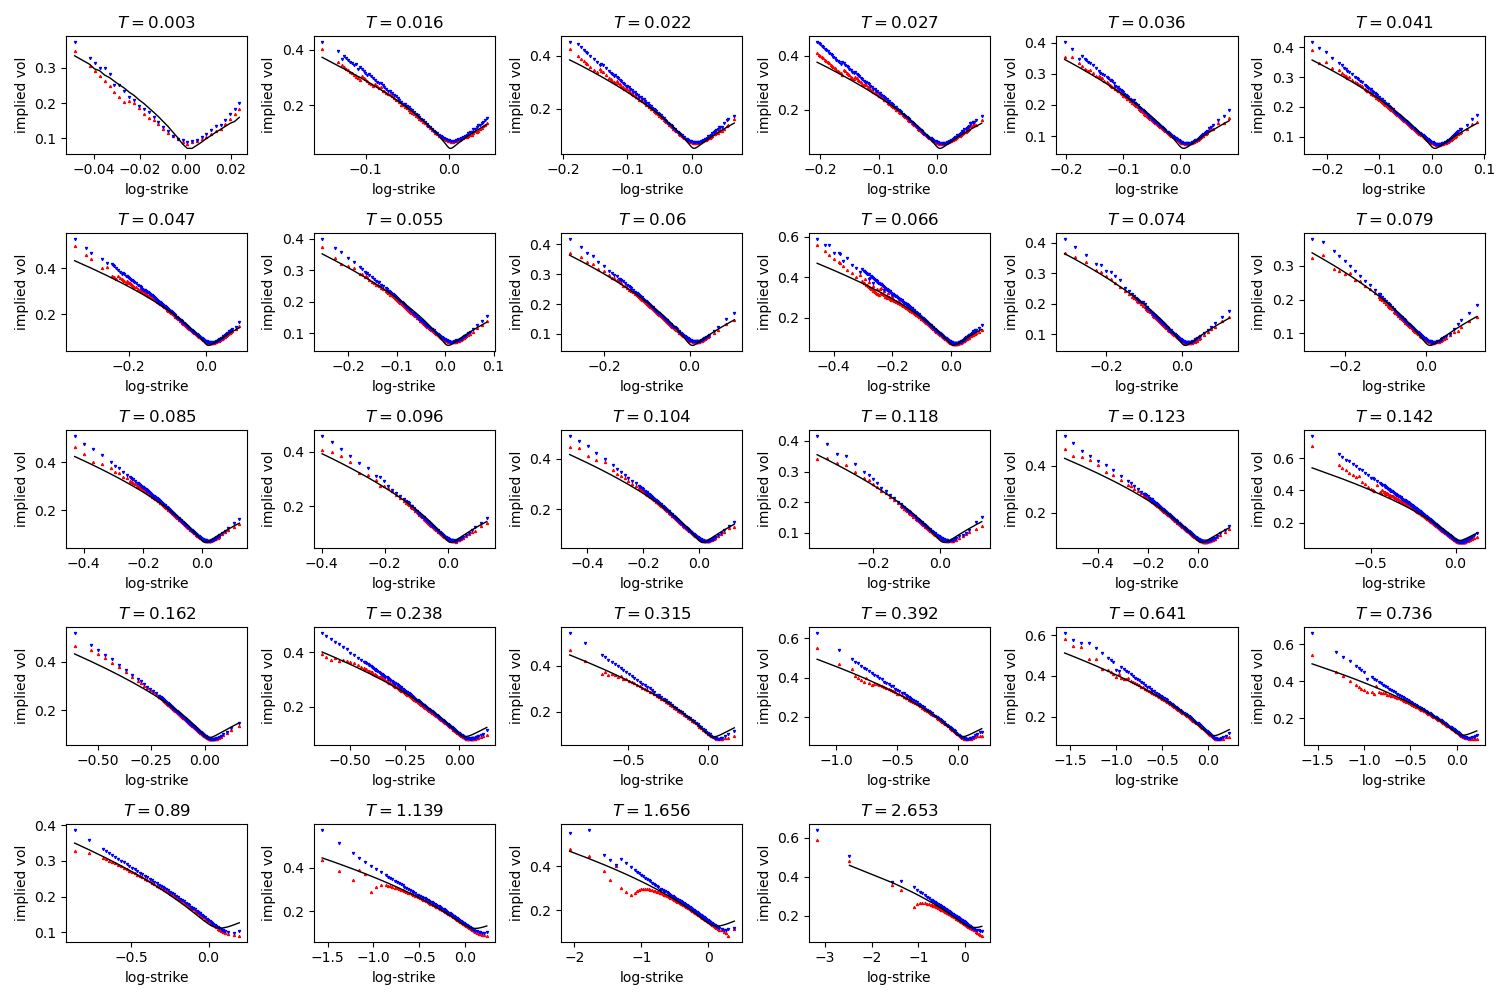
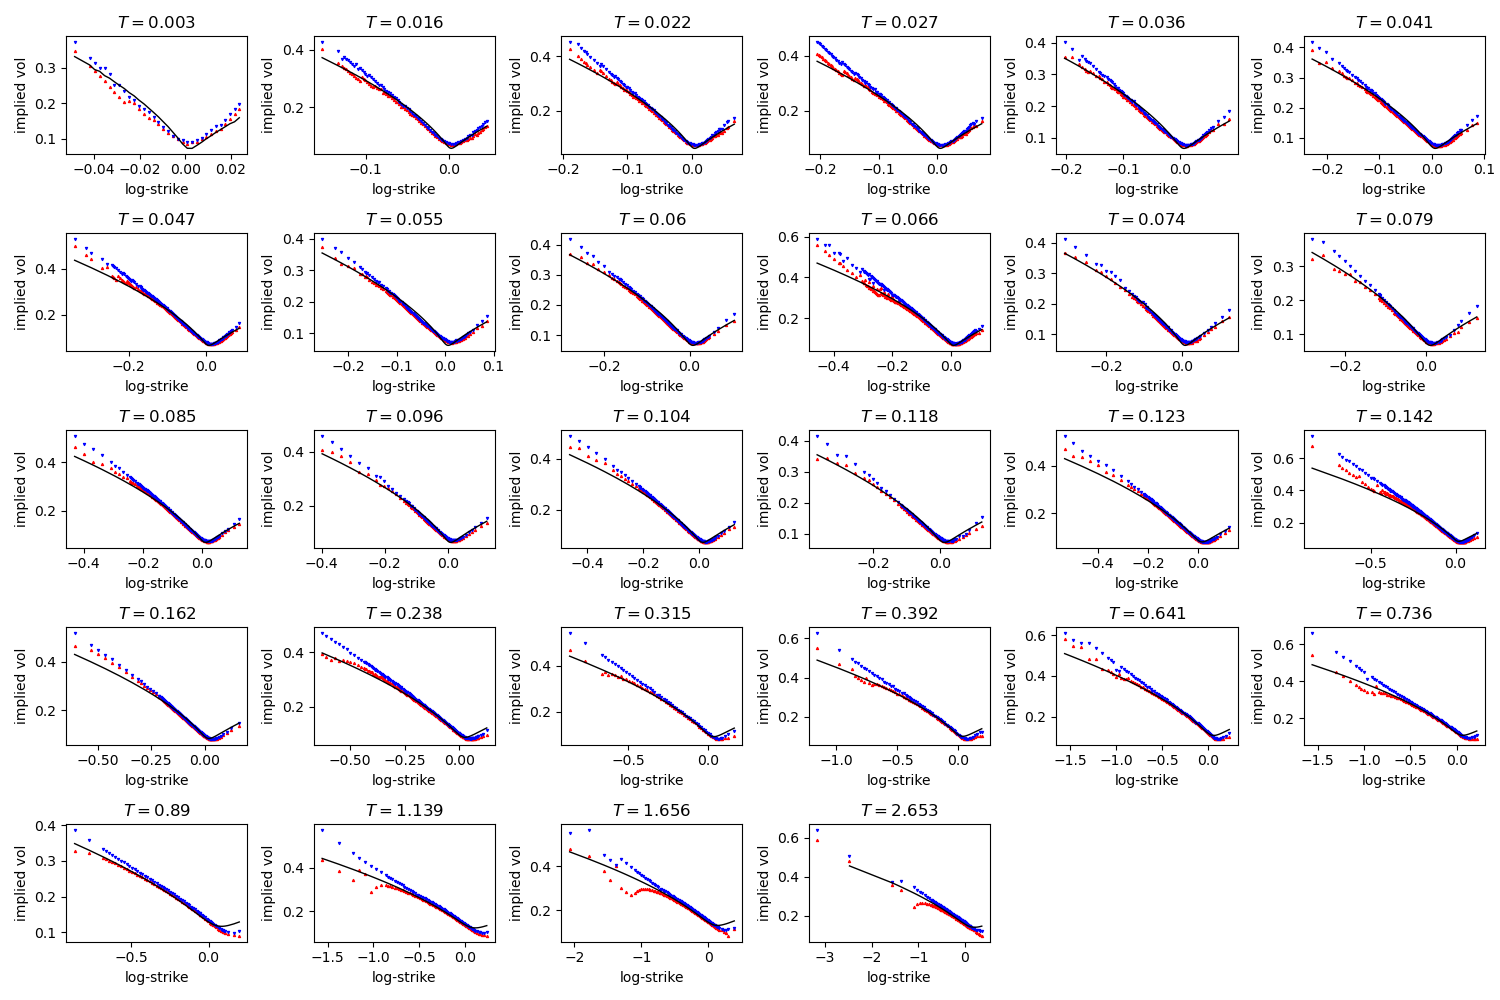
rHes demo; new xi step func; Pade44

diff --git a/python-volcal/pricer.py b/python-volcal/pricer.py
@@ -638,7 +638,7 @@ def dhPade33(hurstExp, correlation, volOfVol, curry=False):
             rp = -1j * rho * a + aa
 
             b1 = -a*(a+1j)/(2*sp.special.gamma(1+al))
-            b2 = (1-a*1j)*a**2*rho/(2* sp.special.gamma(1+2*al))
+            b2 = (1-a*1j)*a**2*rho/(2*sp.special.gamma(1+2*al))
             b3 = sp.special.gamma(1+2*al)/sp.special.gamma(1+3*al)*(a**2*(1j+a)**2/(8*sp.special.gamma(1+al)**2)+(a+1j)*a**3*rho**2/(2*sp.special.gamma(1+2*al)))
 
             g0 = rm
@@ -689,6 +689,126 @@ def dhPade33(hurstExp, correlation, volOfVol, curry=False):
             return .5*(h.T-rm).T*(h.T-rp).T
             # h = (p1*y + p2*y**2 + p3*y**3)/(1 + q1*y + q2*y**2 + q3*y**3)
             # return .5*(h-rm)*(h-rp)
+    return kernel
+
+def dhPade44(hurstExp, correlation, volOfVol, curry=False):
+    # D**alpha(h) where h = solution to fractional Riccati equation
+    # Return kernel matrix of dimension (a,x), a = cfArg, x = maturity
+    # Ref: Gatheral, Rational Approximation of the Rough Heston Solution
+    H = hurstExp
+    al = hurstExp + .5
+    rho = correlation
+    nu = volOfVol
+    if curry:
+        def kernel(a):
+            aa = np.sqrt(a * (a + 1j) - rho**2 * a**2)
+            rm = -1j * rho * a - aa
+            rp = -1j * rho * a + aa
+
+            b1 = -a*(a+1j)/(2 * sp.special.gamma(1+al))
+            b2 = (1-a*1j) * a**2 * rho/(2* sp.special.gamma(1+2*al))
+            b3 = sp.special.gamma(1+2*al)/sp.special.gamma(1+3*al) * (a**2*(1j+a)**2/(8*sp.special.gamma(1+al)**2)+(a+1j)*a**3*rho**2/(2*sp.special.gamma(1+2*al)))
+            b4 = ((a**2*(1j+a)**2)/(8*sp.special.gamma(1+al)**2) + (1j*rho**2*(1-1j*a)*a**3)/(2*sp.special.gamma(1+2*al))) * sp.special.gamma(1+2*al)/sp.special.gamma(1+3*al)
+
+            g0 = rm
+            g1 = -rm/(aa*sp.special.gamma(1-al))
+            g2 = rm/aa**2/sp.special.gamma(1-2*al) * (1 + rm/(2*aa)*sp.special.gamma(1-2*al)/sp.special.gamma(1-al)**2)
+            g3 = (rm*(-1 - (rm*sp.special.gamma(1 - 2*al))/(2.*aa*sp.special.gamma(1 - al)**2) -
+                       (rm*sp.special.gamma(1 - 3*al)*(1 + (rm*sp.special.gamma(1 - 2*al))/(2.*aa*sp.special.gamma(1 - al)**2)))/(aa*sp.special.gamma(1 - 2*al)*sp.special.gamma(1 - al))))/(aa**3*sp.special.gamma(1 - 3*al))
+
+            den = (g0**4 + 3*b1*g0**2*g1 + b1**2*g1**2 - 2*b2*g0*g1**2 + b3*g1**3 +
+                    2*b1**2*g0*g2 + 2*b2*g0**2*g2 - 2*b1*b2*g1*g2 - 2*b3*g0*g1*g2 +
+                    b2**2*g2**2 - b1*b3*g2**2 + b1**3*g3 + 2*b1*b2*g0*g3 + b3*g0**2*g3 -
+                    b2**2*g1*g3 + b1*b3*g1*g3)
+
+            p1 = b1
+            p2 = (b1**2*g0**3 + b2*g0**4 + 2*b1**3*g0*g1 + 2*b1*b2*g0**2*g1 -
+                   b1**2*b2*g1**2 - 2*b2**2*g0*g1**2 + b1*b3*g0*g1**2 + b2*b3*g1**3 -
+                   b1*b4*g1**3 + b1**4*g2 + 2*b1**2*b2*g0*g2 + 2*b2**2*g0**2*g2 -
+                   b1*b3*g0**2*g2 - b1*b2**2*g1*g2 + b1**2*b3*g1*g2 - 2*b2*b3*g0*g1*g2 +
+                   2*b1*b4*g0*g1*g2 + b2**3*g2**2 - 2*b1*b2*b3*g2**2 + b1**2*b4*g2**2 +
+                   b1*b2**2*g0*g3 - b1**2*b3*g0*g3 + b2*b3*g0**2*g3 - b1*b4*g0**2*g3 -
+                   b2**3*g1*g3 + 2*b1*b2*b3*g1*g3 - b1**2*b4*g1*g3)/den
+            p3 = (b1**3*g0**2 + 2*b1*b2*g0**3 + b3*g0**4 + b1**4*g1 + 2*b1**2*b2*g0*g1 - b2**2*g0**2*g1 + 2*b1*b3*g0**2*g1 -
+                   2*b1*b2**2*g1**2 + 2*b1**2*b3*g1**2 - b2*b3*g0*g1**2 + b1*b4*g0*g1**2 + b3**2*g1**3 - b2*b4*g1**3 +
+                   b1*b2**2*g0*g2 - b1**2*b3*g0*g2 + b2*b3*g0**2*g2 - b1*b4*g0**2*g2 + b2**3*g1*g2 - 2*b1*b2*b3*g1*g2 +
+                   b1**2*b4*g1*g2 - 2*b3**2*g0*g1*g2 + 2*b2*b4*g0*g1*g2 - b2**3*g0*g3 + 2*b1*b2*b3*g0*g3 - b1**2*b4*g0*g3 +
+                   b3**2*g0**2*g3 - b2*b4*g0**2*g3)/den
+
+            q1 = (b1*g0**3 + 2*b1**2*g0*g1 - b2*g0**2*g1 - 2*b1*b2*g1**2 + b3*g0*g1**2 - b4*g1**3 + b1**3*g2 -
+                   b3*g0**2*g2 + b2**2*g1*g2 + b1*b3*g1*g2 + 2*b4*g0*g1*g2 - b2*b3*g2**2 + b1*b4*g2**2 - b1**2*b2*g3 - b2**2*g0*g3 -
+                   b1*b3*g0*g3 - b4*g0**2*g3 + b2*b3*g1*g3 - b1*b4*g1*g3)/den
+            q2 = (b1**2*g0**2 + b2*g0**3 + b1**3*g1 - b3*g0**2*g1 + b1*b3*g1**2 + b4*g0*g1**2 - b1**2*b2*g2 + b2**2*g0*g2 -
+                   3*b1*b3*g0*g2 - b4*g0**2*g2 - b2*b3*g1*g2 + b1*b4*g1*g2 + b3**2*g2**2 - b2*b4*g2**2 + b1*b2**2*g3 - b1**2*b3*g3 +
+                   b2*b3*g0*g3 - b1*b4*g0*g3 - b3**2*g1*g3 + b2*b4*g1*g3)/den
+            q3 = (b1**3*g0 + 2*b1*b2*g0**2 + b3*g0**3 - b1**2*b2*g1 - 2*b2**2*g0*g1 - b4*g0**2*g1 + b2*b3*g1**2 - b1*b4*g1**2 +
+                   b1*b2**2*g2 - b1**2*b3*g2 + b2*b3*g0*g2 - b1*b4*g0*g2 - b3**2*g1*g2 + b2*b4*g1*g2 - b2**3*g3 + 2*b1*b2*b3*g3 -
+                   b1**2*b4*g3 + b3**2*g0*g3 - b2*b4*g0*g3)/den
+            q4 = (b1**4 + 3*b1**2*b2*g0 + b2**2*g0**2 + 2*b1*b3*g0**2 + b4*g0**3 - 2*b1*b2**2*g1 + 2*b1**2*b3*g1 -
+                   2*b2*b3*g0*g1 + 2*b1*b4*g0*g1 + b3**2*g1**2 - b2*b4*g1**2 + b2**3*g2 - 2*b1*b2*b3*g2 + b1**2*b4*g2 - b3**2*g0*g2 +
+                   b2*b4*g0*g2)/den
+
+            p4 = g0*q4
+
+            def kernelFixedA(a, x):
+                y = x**al
+                h = (np.outer(p1,y) + np.outer(p2,y**2) + np.outer(p3,y**3) + np.outer(p4,y**4))/(1 + np.outer(q1,y) + np.outer(q2,y**2) + np.outer(q3,y**3) + np.outer(q4,y**4))
+                return .5*(h.T-rm).T*(h.T-rp).T
+            return kernelFixedA
+    else:
+        def kernel(a, x):
+            aa = sqrt(a * (a + 1j) - rho**2 * a**2)
+            rm = -1j * rho * a - aa
+            rp = -1j * rho * a + aa
+
+            b1 = -a*(a+1j)/(2 * sp.special.gamma(1+al))
+            b2 = (1-a*1j) * a**2 * rho/(2* sp.special.gamma(1+2*al))
+            b3 = sp.special.gamma(1+2*al)/sp.special.gamma(1+3*al) * (a**2*(1j+a)**2/(8*sp.special.gamma(1+al)**2)+(a+1j)*a**3*rho**2/(2*sp.special.gamma(1+2*al)))
+            b4 = ((a**2*(1j+a)**2)/(8*sp.special.gamma(1+al)**2) + (1j*rho**2*(1-1j*a)*a**3)/(2*sp.special.gamma(1+2*al))) * sp.special.gamma(1+2*al)/sp.special.gamma(1+3*al)
+
+            g0 = rm
+            g1 = -rm/(aa*sp.special.gamma(1-al))
+            g2 = rm/aa**2/sp.special.gamma(1-2*al) * (1 + rm/(2*aa)*sp.special.gamma(1-2*al)/sp.special.gamma(1-al)**2)
+            g3 = (rm*(-1 - (rm*sp.special.gamma(1 - 2*al))/(2.*aa*sp.special.gamma(1 - al)**2) -
+                       (rm*sp.special.gamma(1 - 3*al)*(1 + (rm*sp.special.gamma(1 - 2*al))/(2.*aa*sp.special.gamma(1 - al)**2)))/(aa*sp.special.gamma(1 - 2*al)*sp.special.gamma(1 - al))))/(aa**3*sp.special.gamma(1 - 3*al))
+
+            den = (g0**4 + 3*b1*g0**2*g1 + b1**2*g1**2 - 2*b2*g0*g1**2 + b3*g1**3 +
+                    2*b1**2*g0*g2 + 2*b2*g0**2*g2 - 2*b1*b2*g1*g2 - 2*b3*g0*g1*g2 +
+                    b2**2*g2**2 - b1*b3*g2**2 + b1**3*g3 + 2*b1*b2*g0*g3 + b3*g0**2*g3 -
+                    b2**2*g1*g3 + b1*b3*g1*g3)
+
+            p1 = b1
+            p2 = (b1**2*g0**3 + b2*g0**4 + 2*b1**3*g0*g1 + 2*b1*b2*g0**2*g1 -
+                   b1**2*b2*g1**2 - 2*b2**2*g0*g1**2 + b1*b3*g0*g1**2 + b2*b3*g1**3 -
+                   b1*b4*g1**3 + b1**4*g2 + 2*b1**2*b2*g0*g2 + 2*b2**2*g0**2*g2 -
+                   b1*b3*g0**2*g2 - b1*b2**2*g1*g2 + b1**2*b3*g1*g2 - 2*b2*b3*g0*g1*g2 +
+                   2*b1*b4*g0*g1*g2 + b2**3*g2**2 - 2*b1*b2*b3*g2**2 + b1**2*b4*g2**2 +
+                   b1*b2**2*g0*g3 - b1**2*b3*g0*g3 + b2*b3*g0**2*g3 - b1*b4*g0**2*g3 -
+                   b2**3*g1*g3 + 2*b1*b2*b3*g1*g3 - b1**2*b4*g1*g3)/den
+            p3 = (b1**3*g0**2 + 2*b1*b2*g0**3 + b3*g0**4 + b1**4*g1 + 2*b1**2*b2*g0*g1 - b2**2*g0**2*g1 + 2*b1*b3*g0**2*g1 -
+                   2*b1*b2**2*g1**2 + 2*b1**2*b3*g1**2 - b2*b3*g0*g1**2 + b1*b4*g0*g1**2 + b3**2*g1**3 - b2*b4*g1**3 +
+                   b1*b2**2*g0*g2 - b1**2*b3*g0*g2 + b2*b3*g0**2*g2 - b1*b4*g0**2*g2 + b2**3*g1*g2 - 2*b1*b2*b3*g1*g2 +
+                   b1**2*b4*g1*g2 - 2*b3**2*g0*g1*g2 + 2*b2*b4*g0*g1*g2 - b2**3*g0*g3 + 2*b1*b2*b3*g0*g3 - b1**2*b4*g0*g3 +
+                   b3**2*g0**2*g3 - b2*b4*g0**2*g3)/den
+
+            q1 = (b1*g0**3 + 2*b1**2*g0*g1 - b2*g0**2*g1 - 2*b1*b2*g1**2 + b3*g0*g1**2 - b4*g1**3 + b1**3*g2 -
+                   b3*g0**2*g2 + b2**2*g1*g2 + b1*b3*g1*g2 + 2*b4*g0*g1*g2 - b2*b3*g2**2 + b1*b4*g2**2 - b1**2*b2*g3 - b2**2*g0*g3 -
+                   b1*b3*g0*g3 - b4*g0**2*g3 + b2*b3*g1*g3 - b1*b4*g1*g3)/den
+            q2 = (b1**2*g0**2 + b2*g0**3 + b1**3*g1 - b3*g0**2*g1 + b1*b3*g1**2 + b4*g0*g1**2 - b1**2*b2*g2 + b2**2*g0*g2 -
+                   3*b1*b3*g0*g2 - b4*g0**2*g2 - b2*b3*g1*g2 + b1*b4*g1*g2 + b3**2*g2**2 - b2*b4*g2**2 + b1*b2**2*g3 - b1**2*b3*g3 +
+                   b2*b3*g0*g3 - b1*b4*g0*g3 - b3**2*g1*g3 + b2*b4*g1*g3)/den
+            q3 = (b1**3*g0 + 2*b1*b2*g0**2 + b3*g0**3 - b1**2*b2*g1 - 2*b2**2*g0*g1 - b4*g0**2*g1 + b2*b3*g1**2 - b1*b4*g1**2 +
+                   b1*b2**2*g2 - b1**2*b3*g2 + b2*b3*g0*g2 - b1*b4*g0*g2 - b3**2*g1*g2 + b2*b4*g1*g2 - b2**3*g3 + 2*b1*b2*b3*g3 -
+                   b1**2*b4*g3 + b3**2*g0*g3 - b2*b4*g0*g3)/den
+            q4 = (b1**4 + 3*b1**2*b2*g0 + b2**2*g0**2 + 2*b1*b3*g0**2 + b4*g0**3 - 2*b1*b2**2*g1 + 2*b1**2*b3*g1 -
+                   2*b2*b3*g0*g1 + 2*b1*b4*g0*g1 + b3**2*g1**2 - b2*b4*g1**2 + b2**3*g2 - 2*b1*b2*b3*g2 + b1**2*b4*g2 - b3**2*g0*g2 +
+                   b2*b4*g0*g2)/den
+
+            p4 = g0*q4
+
+            y = x**al
+            h = (np.outer(p1,y) + np.outer(p2,y**2) + np.outer(p3,y**3) + np.outer(p4,y**4))/(1 + np.outer(q1,y) + np.outer(q2,y**2) + np.outer(q3,y**3) + np.outer(q4,y**4))
+            return .5*(h.T-rm).T*(h.T-rp).T
     return kernel
 
 def rHestonPadeCharFunc(hurstExp, correlation, volOfVol, fvFunc, dhPade=dhPade33, n=100, riskFreeRate=0, curry=False):
@@ -1428,7 +1548,7 @@ def FwdVarCurveFunc(maturity, fwdVar, fitType="const"):
     Nexp = len(Texp)
     curveFunc = None
     if fitType == "const":
-        curveFunc = lambda t: fwdVar[min(sum(Texp<t),Nexp-1)]
+        curveFunc = interp1d(maturity,fwdVar,kind="next",fill_value="extrapolate")
     elif fitType == "spline":
         curveFunc = InterpolatedUnivariateSpline(maturity,fwdVar,ext=3)
     elif fitType == "FW": # non-parametric

diff --git a/python-volcal/main.py b/python-volcal/main.py
@@ -1052,13 +1052,15 @@ def test_CalibrateRHPModelToImpVol():
     curveVS = CalcSwapCurve(df,VarianceSwapFormula)
     curveFV = CalcFwdVarCurve(curveVS)
     fvMid = curveFV["mid"]
-    fvFunc = FwdVarCurveFunc(Texp,fvMid,"spline")
+    fvFunc = FwdVarCurveFunc(Texp,fvMid,"const")
+    # fvFunc = FwdVarCurveFunc(Texp,fvMid,"spline")
 
     k = np.log(df["Strike"]/df["Fwd"]).to_numpy()
     mid = (df["CallMid"]/df["Fwd"]).to_numpy()
     w = 1/(df["Ask"]-df["Bid"]).to_numpy()*norm.pdf(k,scale=0.2)
     iv = df[["Bid","Ask"]]
     x = CalibrateModelToImpliedVolFast(k,T,iv,rHestonPadeCharFunc,paramsRHPval,paramsRHPkey,bounds=paramsRHPbnd,w=w,optionType="call",inversionMethod="Newton",useGlobal=True,curryCharFunc=True,formulaType="COS",kwargsCF={"fvFunc":fvFunc},optMethod="Evolution")
+    # x = CalibrateModelToImpliedVolFast(k,T,iv,rHestonPadeCharFunc,paramsRHPval,paramsRHPkey,bounds=paramsRHPbnd,w=w,optionType="call",inversionMethod="Newton",useGlobal=True,curryCharFunc=True,formulaType="COS",kwargsCF={"fvFunc":fvFunc,"dhPade":dhPade44},optMethod="Evolution")
     x = pd.DataFrame(x.reshape(1,-1), columns=paramsRHPkey)
     x.to_csv(dataFolder+"test_RHPCalibrationIv.csv", index=False)
 
@@ -1072,11 +1074,13 @@ def test_ImpVolFromRHPIvCalibration():
     curveVS = CalcSwapCurve(df,VarianceSwapFormula)
     curveFV = CalcFwdVarCurve(curveVS)
     fvMid = curveFV["mid"]
-    fvFunc = FwdVarCurveFunc(Texp,fvMid,"spline")
+    fvFunc = FwdVarCurveFunc(Texp,fvMid,"const")
+    # fvFunc = FwdVarCurveFunc(Texp,fvMid,"spline")
 
     dfnew = list()
     params = cal[paramsRHPkey].iloc[0].to_dict()
     impVolFunc = CharFuncImpliedVol(rHestonPadeCharFunc(**params,fvFunc=fvFunc),optionType="call",formulaType="COS")
+    # impVolFunc = CharFuncImpliedVol(rHestonPadeCharFunc(**params,fvFunc=fvFunc,dhPade=dhPade44),optionType="call",formulaType="COS")
     for T in Texp:
         dfT = df[df["Texp"]==T].copy()
         k = np.log(dfT["Strike"]/dfT["Fwd"]).to_numpy()
